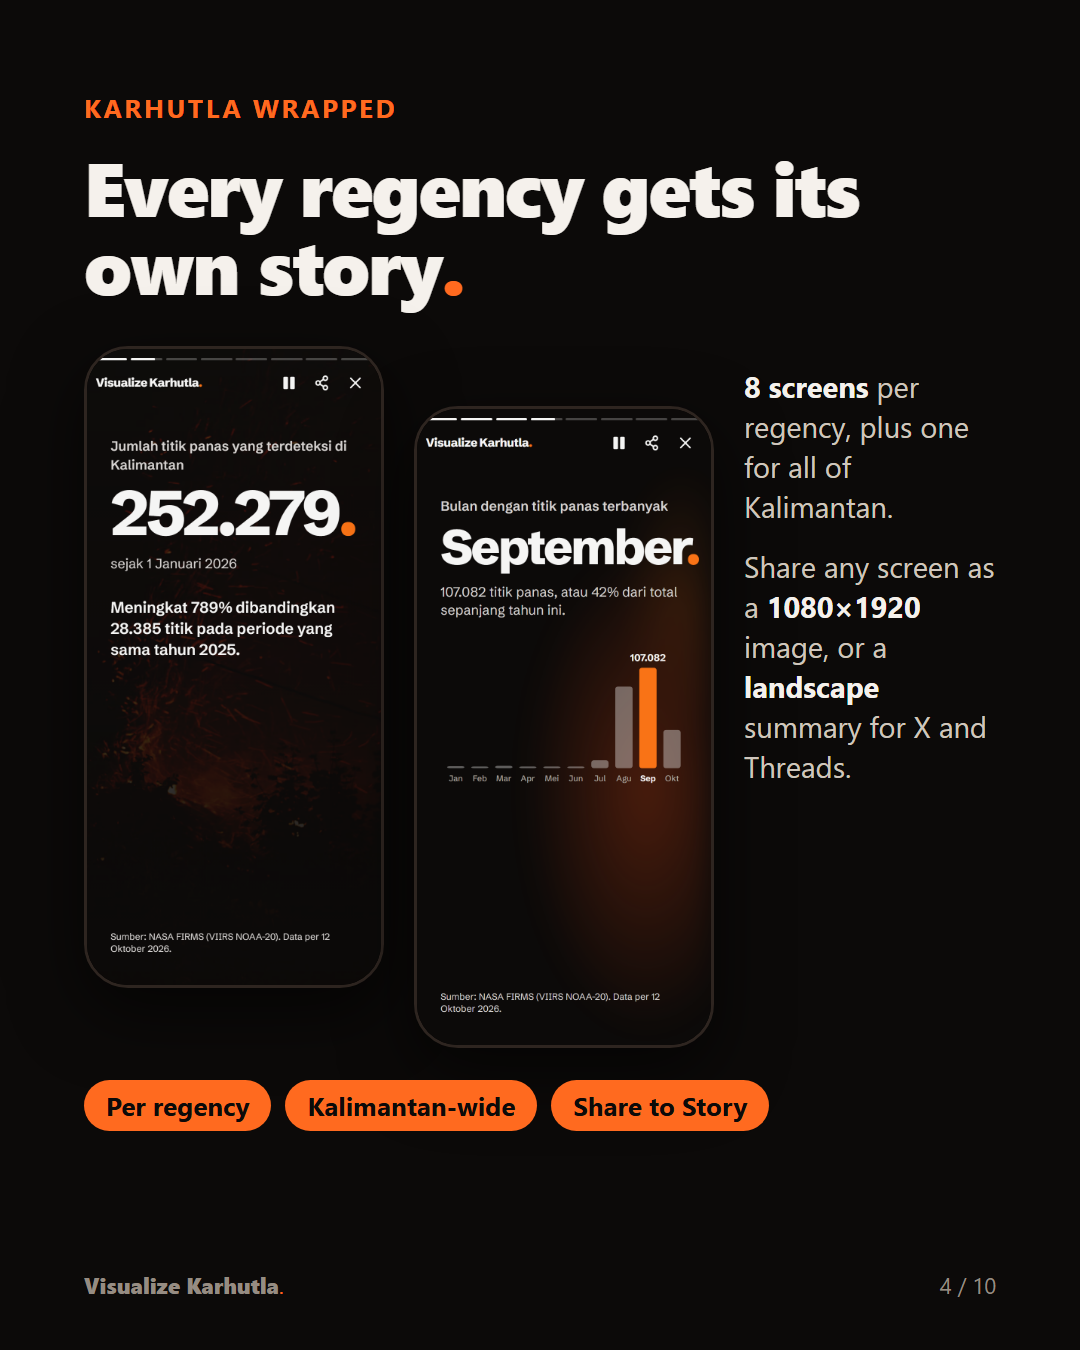
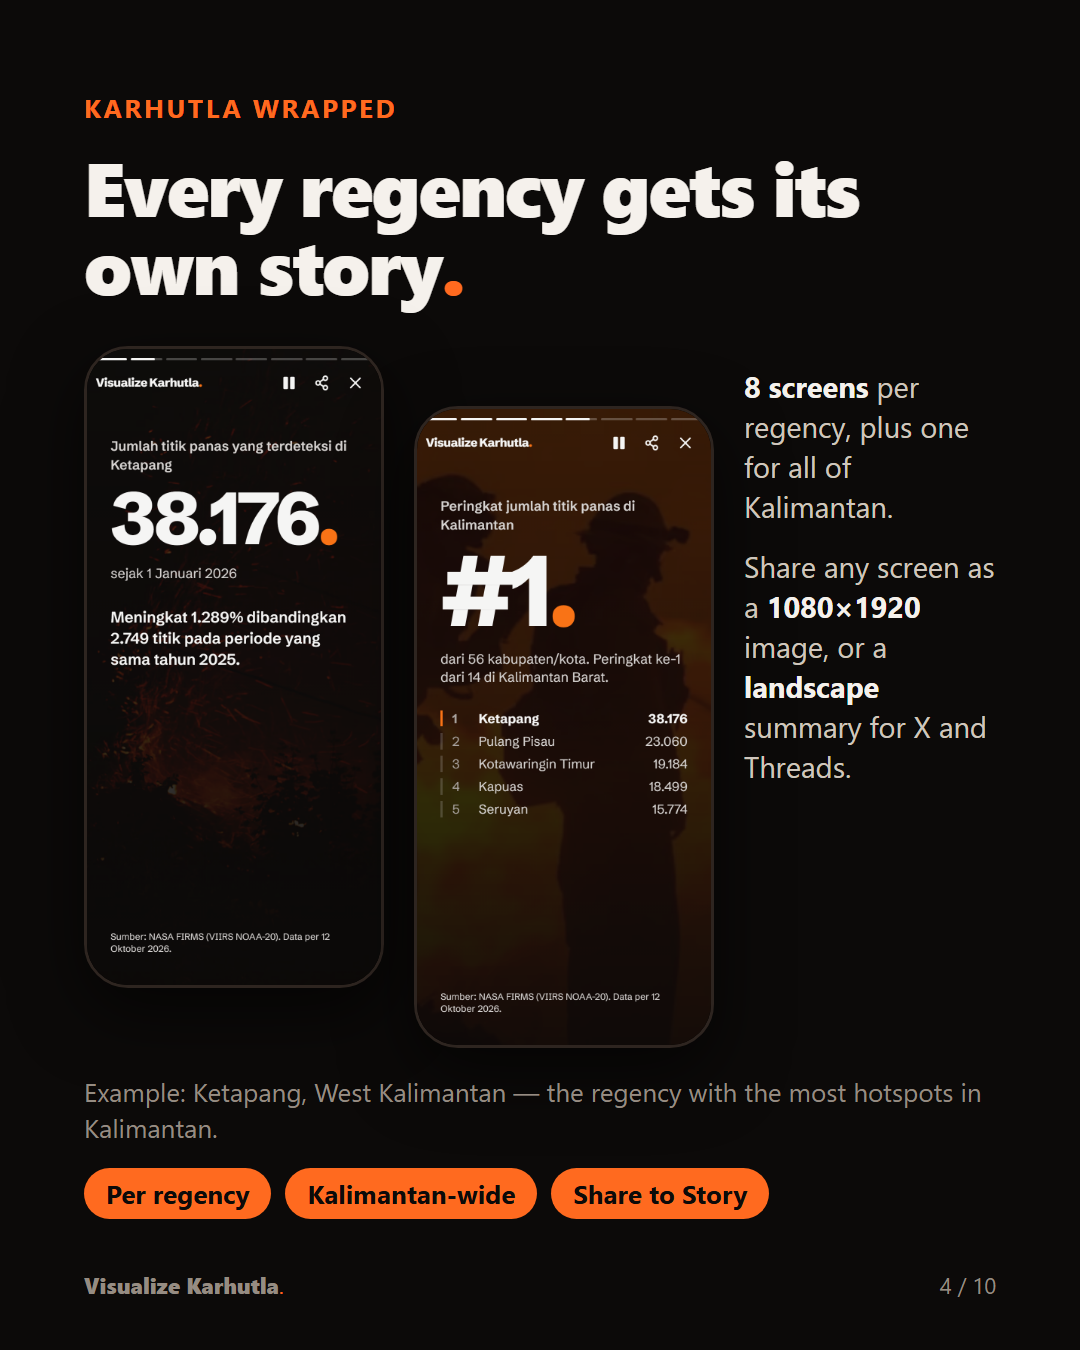
Improvement report: slide 1 tidak terpotong, contoh Wrapped dengan kabupaten (Ketapang), tambah rencana daerah terdampak lain

diff --git a/docs/report/slides.html b/docs/report/slides.html
@@ -25,8 +25,8 @@ p,li{font-size:33px;line-height:1.38;color:var(--fg2)}b{color:var(--fg)}
 .need{margin-top:auto;background:var(--ember);border-radius:26px;padding:34px 38px}.need h3{font-size:46px;line-height:1.05;color:var(--ink);letter-spacing:-.02em}.need p{font-size:28px;color:#2a1306;margin-top:12px;line-height:1.3}.need b{color:var(--ink)}
 .need .url{margin-top:16px;font-size:30px;font-weight:800;color:var(--ink)}
 </style></head><body><section class="slide"><div class="k">Improvement report &middot; October 2026</div><h1>What we<br>shipped,<br>what&rsquo;s<br>next<i>.</i></h1>
-<p style="margin-top:34px;max-width:600px">A progress report on Visualize Karhutla, the open project that maps Kalimantan&rsquo;s 2026 forest and land fires.</p>
-<div class="phone" style="position:absolute;right:84px;bottom:-60px;width:330px"><img src="img/hero-mobile.png" alt=""></div>
+<p style="margin-top:34px;max-width:500px">A progress report on Visualize Karhutla, the open project that maps Kalimantan&rsquo;s 2026 forest and land fires.</p>
+<div class="phone" style="position:absolute;right:84px;top:300px;width:340px"><img src="img/hero-mobile.png" alt=""></div>
 <div class="foot"><span><b>Visualize Karhutla</b><i>.</i> </span><span>1 / 10</span></div></section><section class="slide"><div class="k">Data</div><h2>Real satellite data, clearly sourced<i>.</i></h2>
 <div class="big">252,279</div><p style="margin-top:8px;color:var(--fg)">fire hotspots detected in Kalimantan, 1 January to 12 October 2026.</p>
 <div class="stats"><div class="stat"><b>56</b><span>regencies and cities mapped</span></div><div class="stat"><b>8.9&times;</b><span>vs the same period in 2025</span></div><div class="stat"><b>5</b><span>provinces covered</span></div></div>
@@ -35,9 +35,10 @@ p,li{font-size:33px;line-height:1.38;color:var(--fg2)}b{color:var(--fg)}
 <div class="row" style="margin-top:46px"><div class="shot" style="width:600px;flex:none"><img src="img/map-desktop.png" alt=""></div><div class="phone" style="width:250px;flex:none;margin-top:30px"><img src="img/map-mobile.png" alt=""></div></div>
 <ul class="tick" style="margin-top:50px"><li><b>Timeline player</b> from 1 January to the latest day.</li><li><b>Hotspots and 3D density</b> views, filter by province.</li><li><b>Shareable map links</b>, regency labels and tooltips.</li></ul>
 <div class="foot"><span><b>Visualize Karhutla</b><i>.</i> </span><span>3 / 10</span></div></section><section class="slide"><div class="k">Karhutla Wrapped</div><h2>Every regency gets its own story<i>.</i></h2>
-<div class="row" style="margin-top:44px;gap:30px"><div class="phone" style="width:300px;flex:none"><img src="img/wrapped-total.png" alt=""></div><div class="phone" style="width:300px;flex:none;margin-top:60px"><img src="img/wrapped-bulan.png" alt=""></div>
+<div class="row" style="margin-top:44px;gap:30px"><div class="phone" style="width:300px;flex:none"><img src="img/ketapang-total.png" alt=""></div><div class="phone" style="width:300px;flex:none;margin-top:60px"><img src="img/ketapang-rank.png" alt=""></div>
 <div style="padding-top:20px"><p style="font-size:29px"><b>8 screens</b> per regency, plus one for all of Kalimantan.</p><p style="font-size:29px;margin-top:20px">Share any screen as a <b>1080&times;1920</b> image, or a <b>landscape</b> summary for X and Threads.</p></div></div>
-<div class="chips"><span>Per regency</span><span>Kalimantan-wide</span><span>Share to Story</span></div>
+<p style="margin-top:26px;font-size:26px;color:var(--fg3)">Example: Ketapang, West Kalimantan &mdash; the regency with the most hotspots in Kalimantan.</p>
+<div class="chips" style="margin-top:22px"><span>Per regency</span><span>Kalimantan-wide</span><span>Share to Story</span></div>
 <div class="foot"><span><b>Visualize Karhutla</b><i>.</i> </span><span>4 / 10</span></div></section><section class="slide"><div class="k">Awareness tools</div><h2>Ready-made visuals to spread the word<i>.</i></h2>
 <div class="shot" style="margin-top:44px"><img src="img/templates-grid.jpg" alt=""></div>
 <ul class="tick" style="margin-top:44px"><li><b>8 Instagram Story templates</b> with campaign lines and fire photos, plus an Add Yours template.</li><li>Download or share straight from your phone.</li></ul>
@@ -69,7 +70,8 @@ p,li{font-size:33px;line-height:1.38;color:var(--fg2)}b{color:var(--fg)}
 <div><em>2</em><p><b>Burned area per regency</b> (today: province level, from news reports).</p></div>
 <div><em>3</em><p><b>More years of history</b> for context beyond 2025.</p></div>
 <div><em>4</em><p><b>A faster map</b> on slow phones (lighter hotspot data).</p></div>
-<div><em>5</em><p><b>Automated tests</b> for pages and share images, and an English version.</p></div>
+<div><em>5</em><p><b>Other affected regions</b> coming soon: fetch data for Sumatra, Papua and beyond.</p></div>
+<div><em>6</em><p><b>Automated tests</b> for pages and share images, and an English version.</p></div>
 </div>
 <div class="need"><h3>We need your contribution.</h3><p><b>Data:</b> burned-area figures, local reports, corrections. <b>Assets:</b> illustrations, photos, designs. <b>Also:</b> articles, code, translation.</p><div class="url">harryrosianto.github.io/visualize-karhutla/kontribusi</div></div>
 <div class="foot"><span><b>Visualize Karhutla</b><i>.</i> #visualizekarhutla</span><span>10 / 10</span></div></section></body></html>
